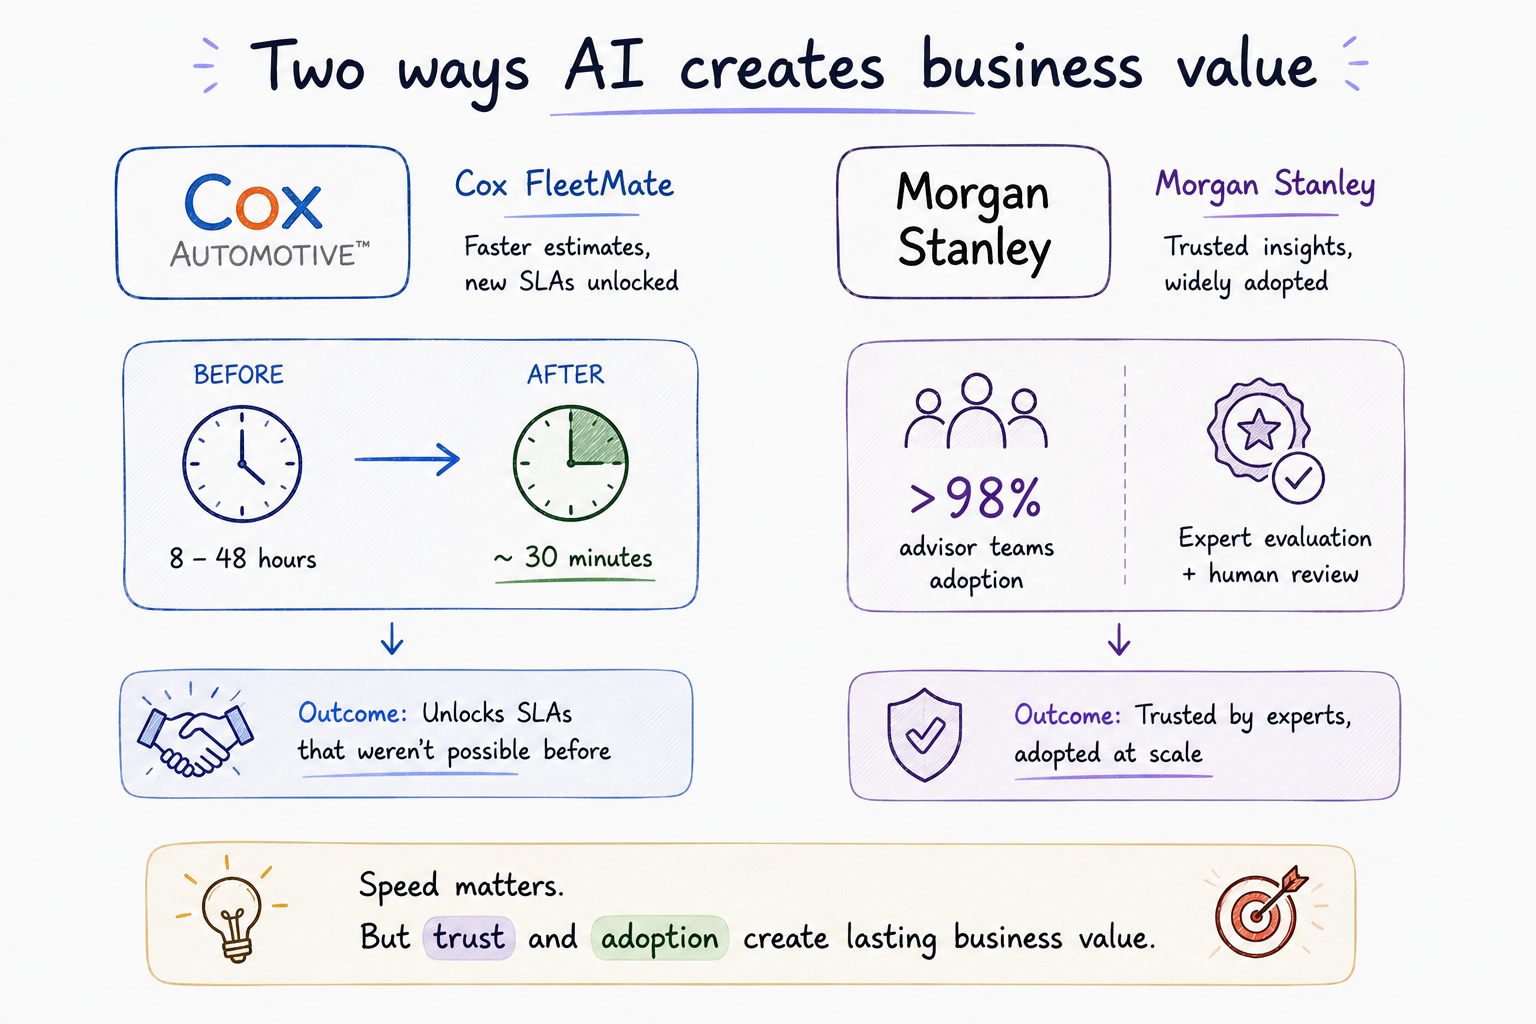
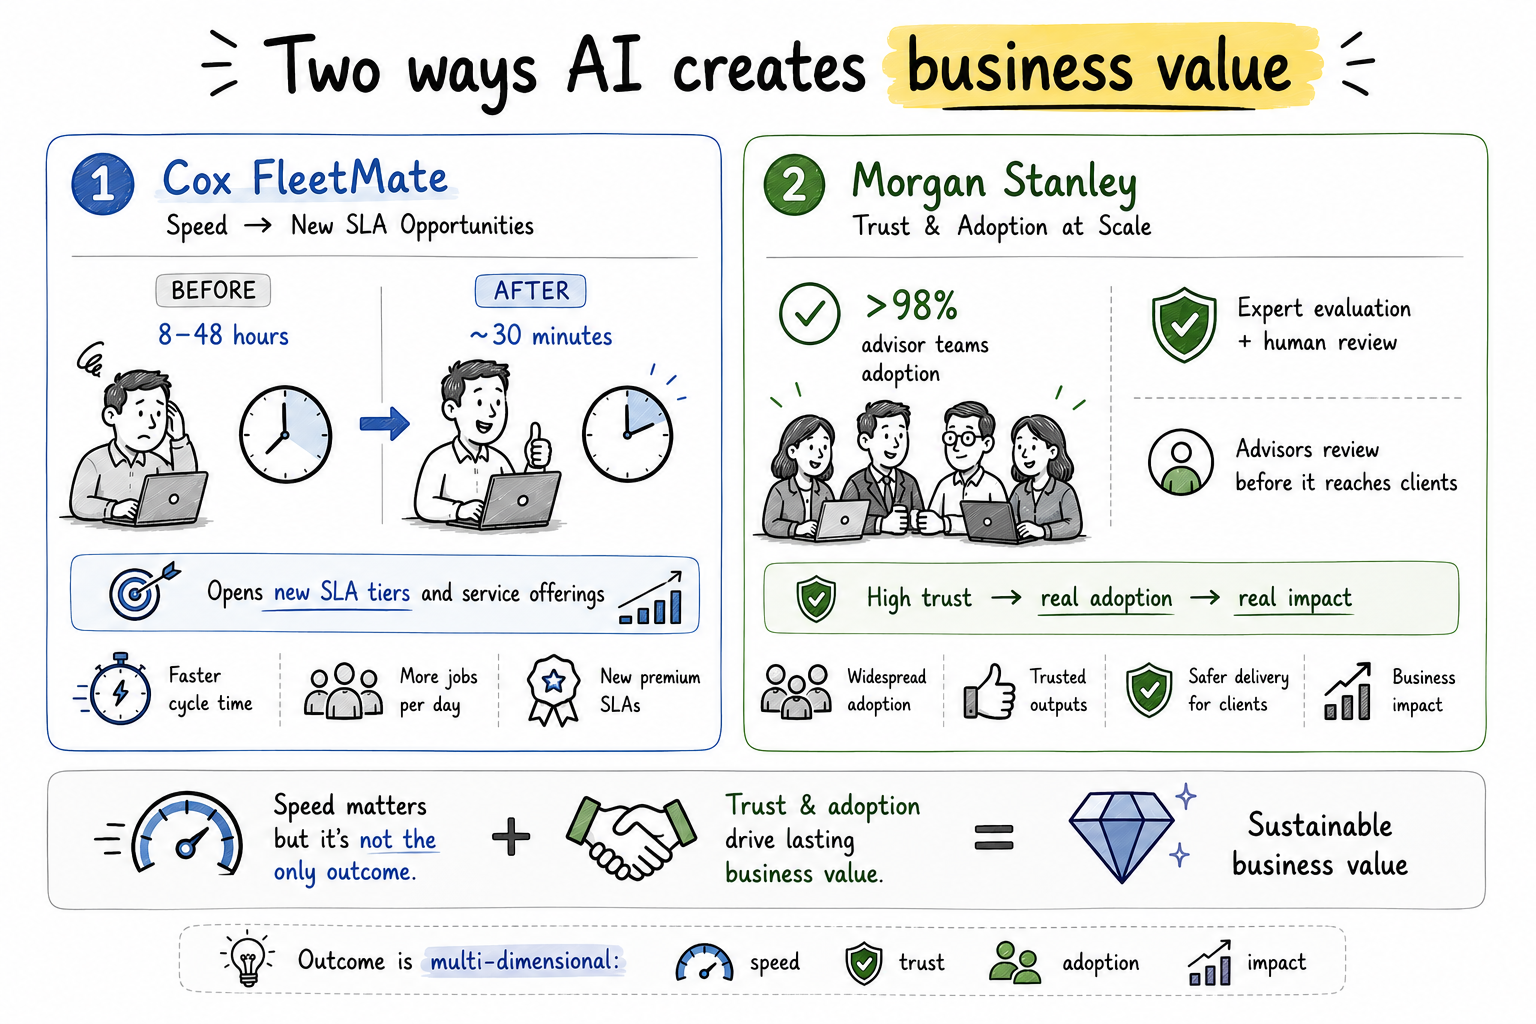
fix

Changed region(s): [[0.0312, 0.0, 0.9688, 0.9688], [0.6875, 0.2812, 0.7188, 0.3125]]

diff --git a/layouts/partials/extend_head.html b/layouts/partials/extend_head.html
@@ -9,3 +9,26 @@
     {left: '\\[', right: '\\]', display: true}
   ]});"></script>
 {{- end }}
+
+<style>
+.list .post-entry {
+  margin-bottom: 1.5rem;
+  padding: 0 0 1.5rem;
+  background: transparent;
+  border: 0;
+  border-bottom: 1px solid var(--border);
+  border-radius: 0;
+  transition: none;
+}
+
+.list .post-entry:hover,
+.list .post-entry:focus-within {
+  transform: none;
+  border-color: var(--border);
+}
+
+.list .post-entry:hover .entry-header h2 {
+  text-decoration: underline;
+  text-underline-offset: 0.2em;
+}
+</style>

diff --git a/content/posts/the-agent-is-not-the-product.md b/content/posts/the-agent-is-not-the-product.md
@@ -81,7 +81,7 @@ For FleetMate, “produce an estimate” would be a weak definition. A stronger 
 
 This is evaluation-driven development in its useful form. Evaluation is not a final exam for an agent that has already been built. It is the instrument panel that tells the team what to build toward.
 
-{{< figure src="/images/illustrations/evidence-contract.png" alt="An evidence contract flows from business outcome to evaluation criteria and production monitoring, with measures for outcomes, quality, efficiency, and governance" caption="An evidence contract connects the business outcome to pre-deployment evaluation and production monitoring." >}}
+{{< figure src="/images/illustrations/evidence-contract.png" alt="An evidence contract moves from a business outcome through output quality, trajectory quality, safety and compliance, and reliability and stability to production monitoring" caption="An evidence contract connects the business outcome to pre-deployment evaluation and production monitoring." >}}
 
 ## Why a polished output is weak evidence
 